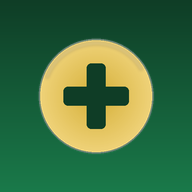
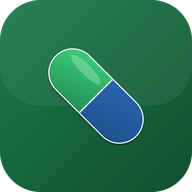
Add files via upload

diff --git a/service-worker.js b/service-worker.js
@@ -1,119 +1,48 @@
-// FarmaGest Service Worker v1.0
-const CACHE_NAME = 'farmagest-v1';
-const BASE = '/FarmaGest-alvirosil';
+// FarmaGest - Service Worker
+// Necessário para a app ser instalável como PWA.
+// Faz cache básica do shell da aplicação e funciona offline para o essencial.
 
-const ASSETS_ESSENCIAIS = [
-  BASE + '/',
-  BASE + '/index.html',
-  'https://fonts.googleapis.com/css2?family=Inter:wght@300;400;500;600;700&family=DM+Mono:wght@400;500&display=swap',
-  'https://cdn.jsdelivr.net/npm/lucide@latest/dist/umd/lucide.min.js'
+const CACHE_NAME = 'farmagest-cache-v1';
+const APP_SHELL = [
+  './',
+  './index.html',
+  './manifest.json',
+  './icon-192.png',
+  './icon-512.png'
 ];
 
-// ── INSTALL: guarda assets essenciais em cache (um a um, para não falhar tudo se 1 recurso externo falhar) ──
 self.addEventListener('install', event => {
-  self.skipWaiting();
   event.waitUntil(
-    caches.open(CACHE_NAME).then(cache => {
-      return Promise.allSettled(
-        ASSETS_ESSENCIAIS.map(url =>
-          fetch(url).then(res => {
-            if (res && res.ok) return cache.put(url, res);
-          }).catch(() => {})
-        )
-      );
-    })
+    caches.open(CACHE_NAME)
+      .then(cache => cache.addAll(APP_SHELL))
+      .then(() => self.skipWaiting())
   );
 });
 
-// ── ACTIVATE: limpa caches antigos ──
 self.addEventListener('activate', event => {
   event.waitUntil(
     caches.keys().then(keys =>
       Promise.all(
-        keys
-          .filter(k => k !== CACHE_NAME)
-          .map(k => caches.delete(k))
+        keys.filter(key => key !== CACHE_NAME).map(key => caches.delete(key))
       )
     ).then(() => self.clients.claim())
   );
 });
 
-// ── FETCH: Network first, cache fallback ──
+// Estratégia: tenta a rede primeiro (para ter sempre os dados/HTML mais recentes);
+// se falhar (offline), usa o que estiver em cache.
 self.addEventListener('fetch', event => {
-  const url = new URL(event.request.url);
+  if (event.request.method !== 'GET') return;
 
-  // Supabase — nunca interceptar (sempre online)
-  if (url.hostname.includes('supabase')) return;
-
-  // Navegação (HTML) — Network first
-  if (event.request.mode === 'navigate') {
-    event.respondWith(
-      fetch(event.request)
-        .then(res => {
-          const clone = res.clone();
-          caches.open(CACHE_NAME).then(c => c.put(event.request, clone));
-          return res;
-        })
-        .catch(() => caches.match(BASE + '/index.html'))
-    );
-    return;
-  }
-
-  // Outros assets — Cache first, network fallback
   event.respondWith(
-    caches.match(event.request).then(cached => {
-      if (cached) return cached;
-      return fetch(event.request).then(res => {
-        if (!res || res.status !== 200 || res.type === 'opaque') return res;
-        const clone = res.clone();
-        caches.open(CACHE_NAME).then(c => c.put(event.request, clone));
-        return res;
-      }).catch(() => new Response('Offline', { status: 503 }));
-    })
+    fetch(event.request)
+      .then(response => {
+        const responseClone = response.clone();
+        caches.open(CACHE_NAME).then(cache => {
+          cache.put(event.request, responseClone);
+        });
+        return response;
+      })
+      .catch(() => caches.match(event.request))
   );
-});
-
-// ── PUSH NOTIFICATIONS ──
-self.addEventListener('push', event => {
-  let data = { title: 'FarmaGest', body: 'Tens uma nova notificação.' };
-  try { data = event.data.json(); } catch(e) {}
-
-  event.waitUntil(
-    self.registration.showNotification(data.title || 'FarmaGest', {
-      body: data.body || '',
-      icon: BASE + '/icon-192.png',
-      badge: BASE + '/icon-192.png',
-      tag: data.tag || 'farmagest-notif',
-      renotify: true,
-      data: { url: data.url || BASE + '/' }
-    })
-  );
-});
-
-// ── CLICK em notificação ──
-self.addEventListener('notificationclick', event => {
-  event.notification.close();
-  const target = event.notification.data?.url || BASE + '/';
-  event.waitUntil(
-    clients.matchAll({ type: 'window', includeUncontrolled: true }).then(list => {
-      for (const client of list) {
-        if (client.url.includes('FarmaGest-alvirosil') && 'focus' in client) {
-          return client.focus();
-        }
-      }
-      return clients.openWindow(target);
-    })
-  );
-});
-
-// ── SYNC em background (quando volta a ter internet) ──
-self.addEventListener('sync', event => {
-  if (event.tag === 'farmagest-sync') {
-    // Notifica todos os clientes para re-sincronizar com Supabase
-    event.waitUntil(
-      self.clients.matchAll().then(list =>
-        list.forEach(c => c.postMessage({ type: 'SYNC_REQUESTED' }))
-      )
-    );
-  }
 });